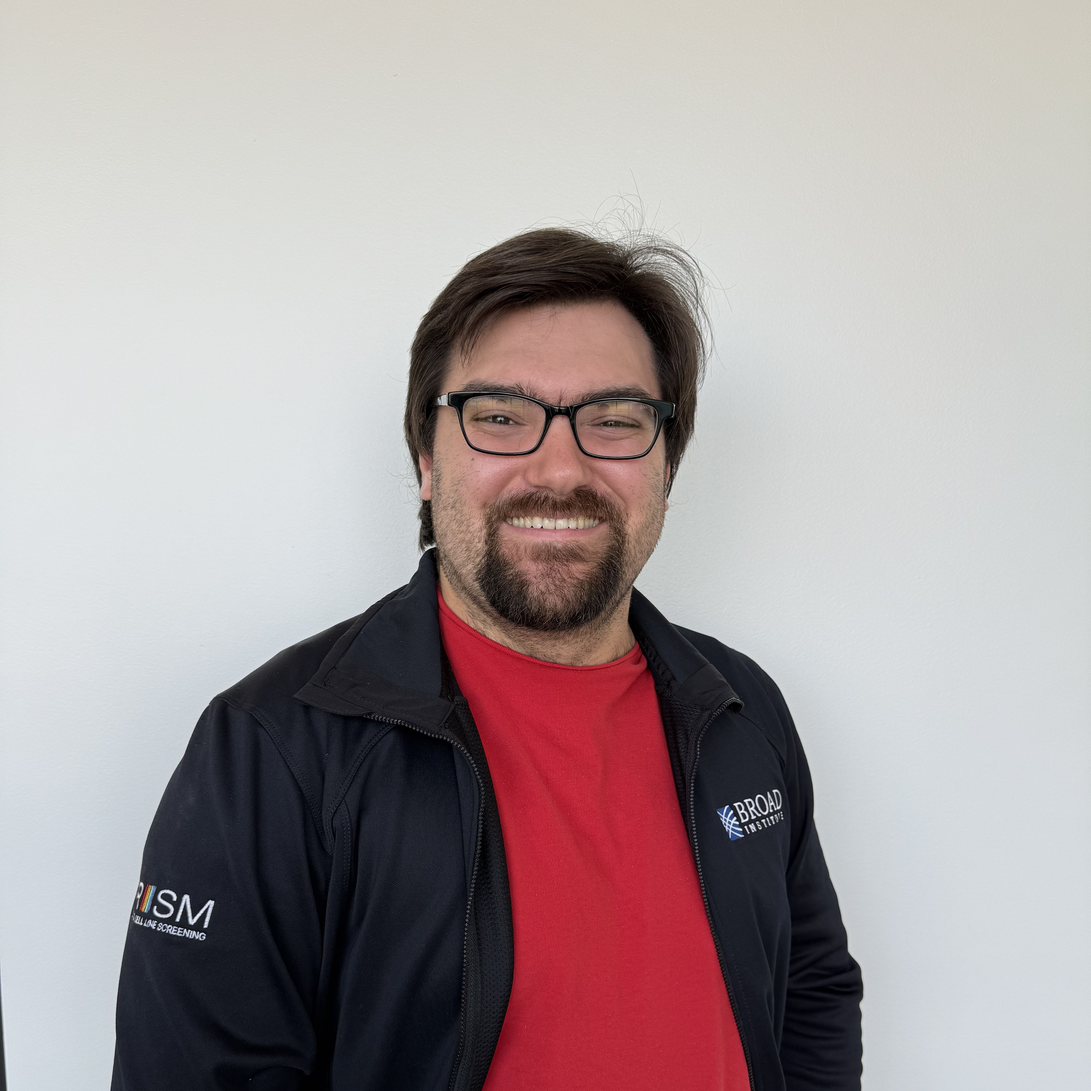
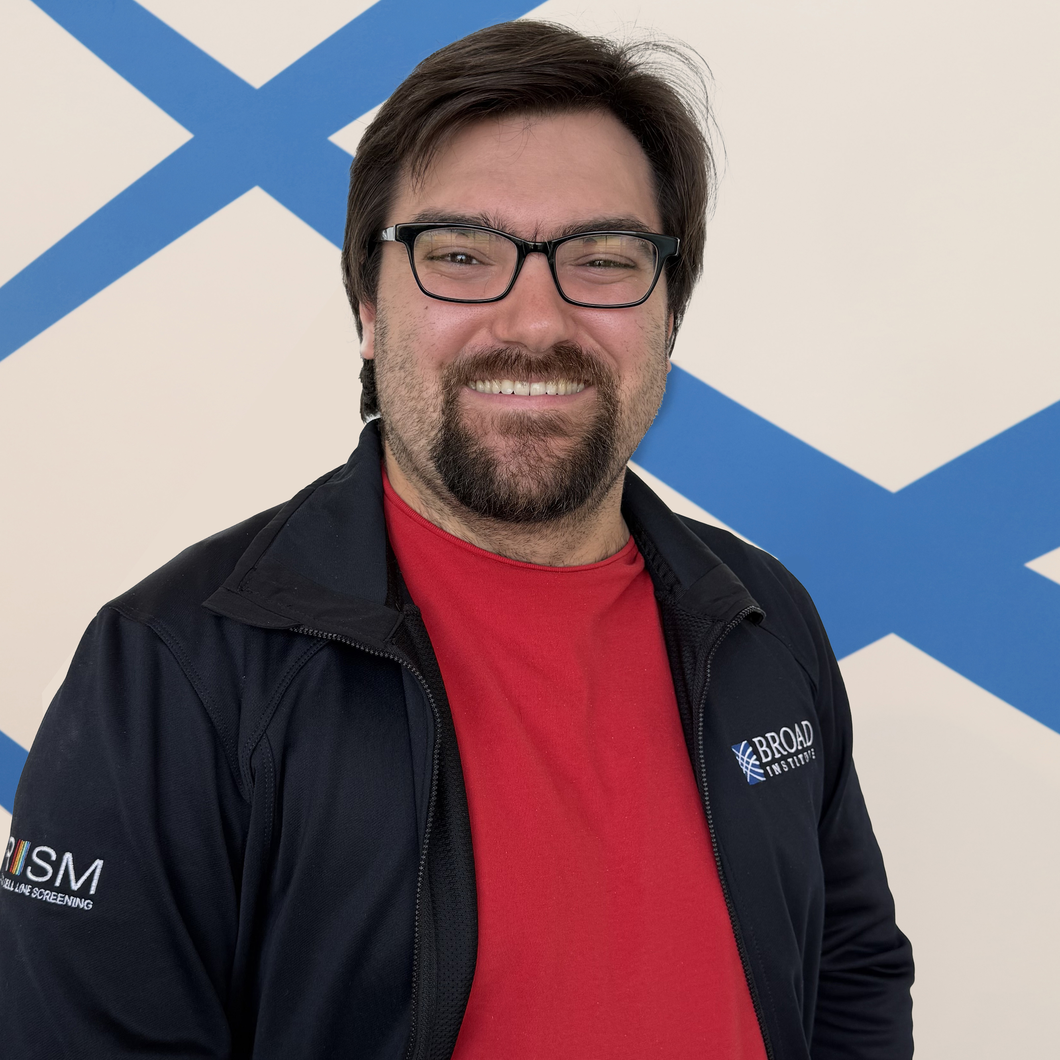
update team pics folder

diff --git a/src/pages/about-us/team.vue b/src/pages/about-us/team.vue
@@ -29,7 +29,7 @@ const dataFile = "Website Content - 2025  - Team Page.csv";
     },
     computed: {
       imgPath() {
-          return import.meta.env.PROD ? import.meta.env.BASE_URL + "images/team_headshots/" : "../../public/images/team_headshots/"
+          return import.meta.env.PROD ? import.meta.env.BASE_URL + "images/team/" : "../../public/images/team/"
         },
    
     },
